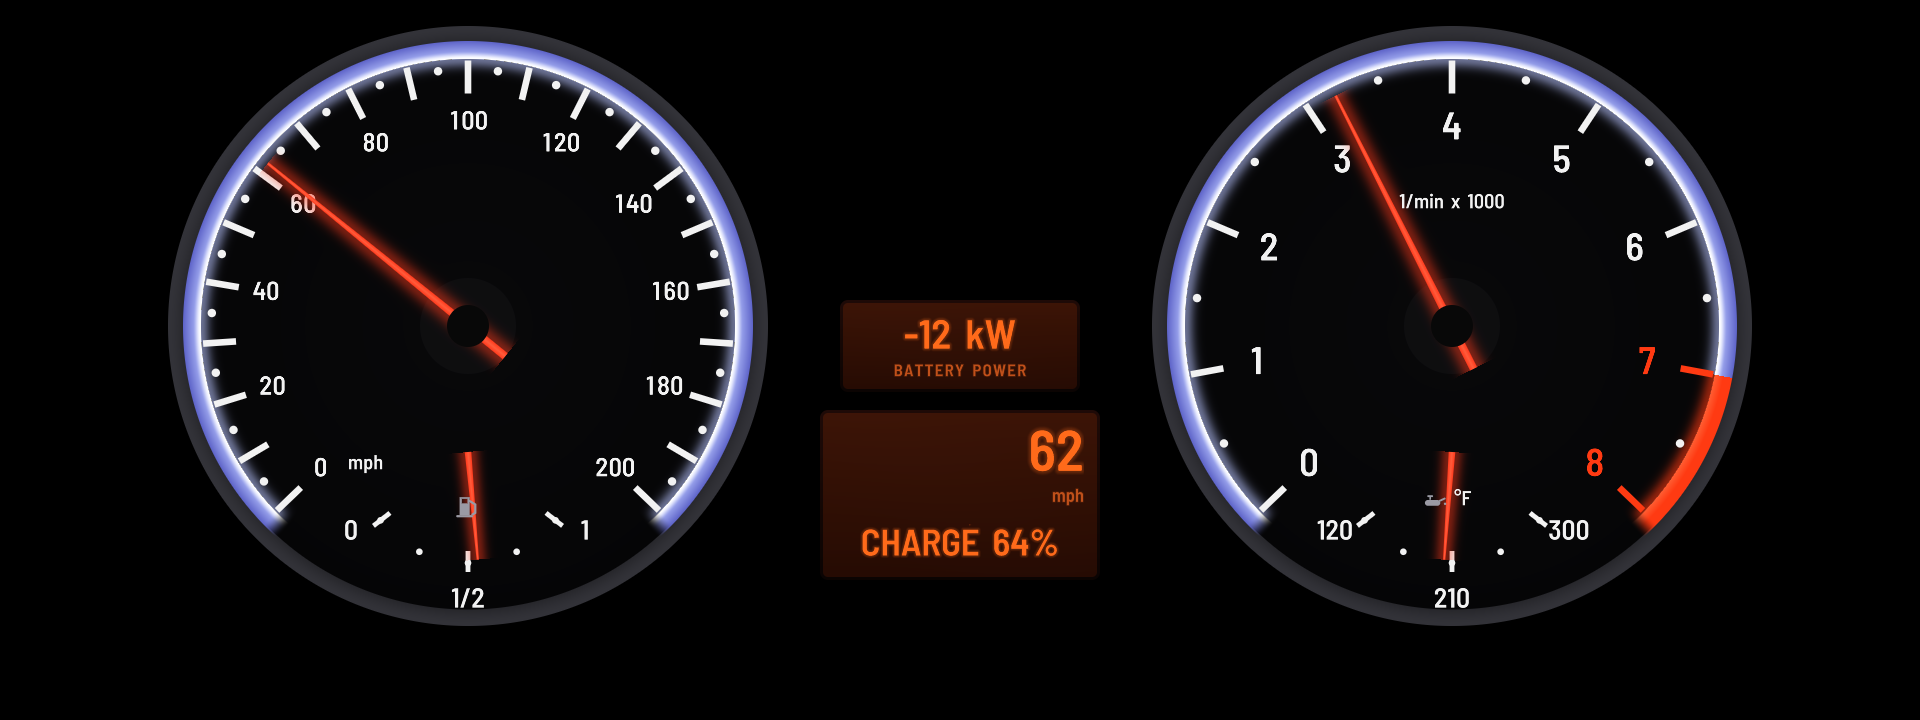
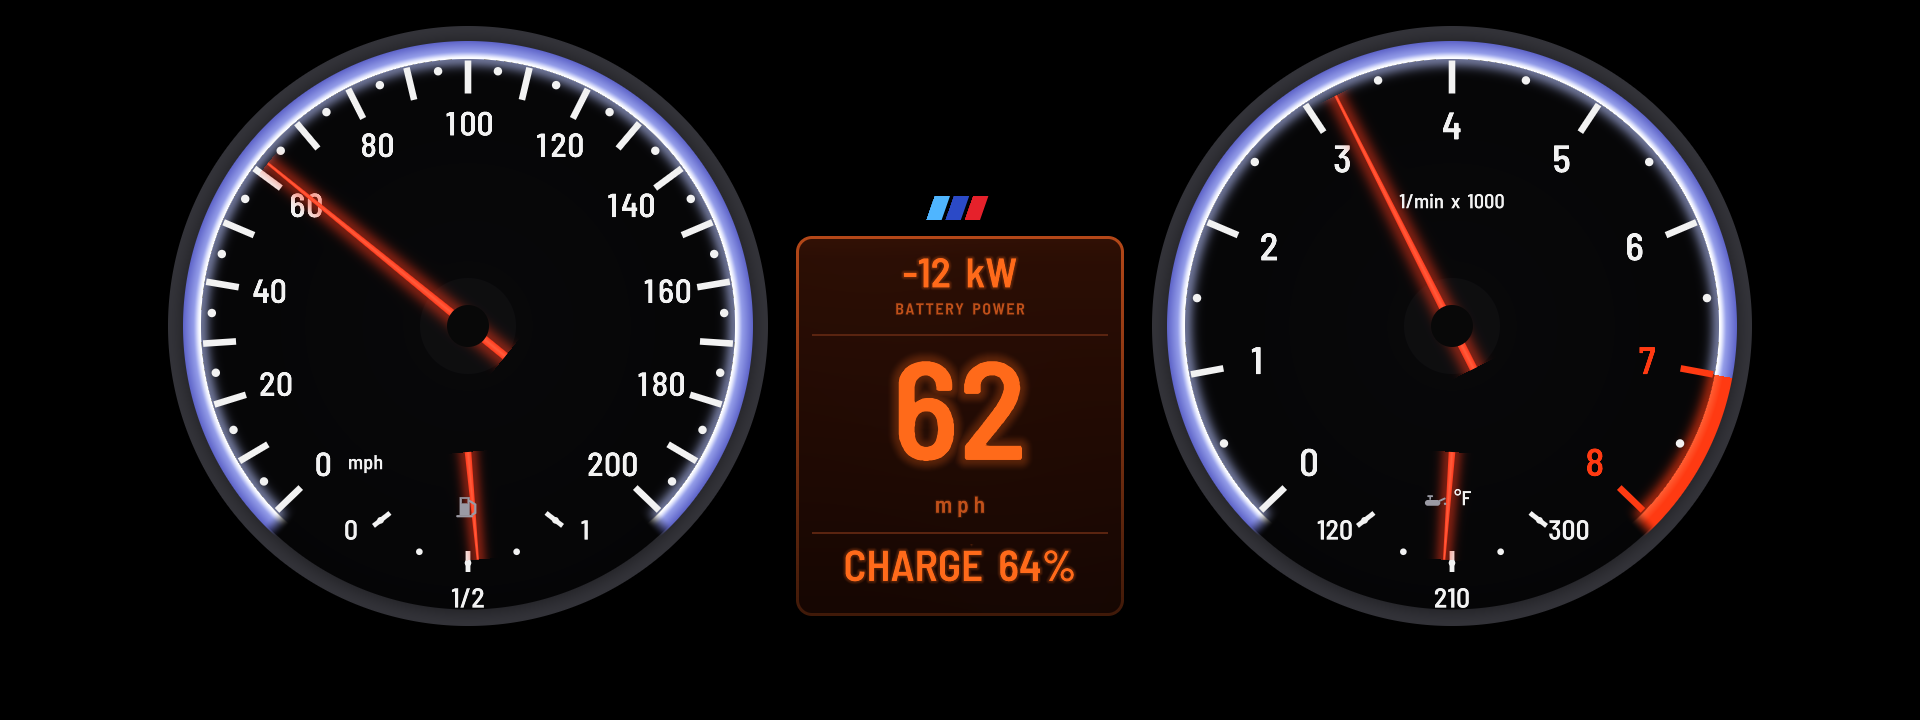
Cluster Layouts 0.26.1: Classic M's speed easier to read; its centre display redone
- The digital speed in the middle is much larger, about 1.6 times its old height.
- The speedometer's numerals are larger: about 30% in mph, 10% in km/h, where 12 numerals
  have to fit.
- The centre is one amber LCD, as the E9x's, under the M tricolour.
  - Along the top: the battery's power with its label (the gear at the right, full screen).
  - In the middle: the speed and its unit.
  - Along the bottom: the charge (the coolant on a petrol or diesel car).
  - Thin amber rules separate the rows, and the edge glows faintly amber.

Claude-Session: https://claude.ai/code/session_01QwhX8ghGKjBsHGDMJafpJK

diff --git a/apps/cluster_layouts/layout_classic.js b/apps/cluster_layouts/layout_classic.js
@@ -17,7 +17,7 @@ const B = require('./bimmer');
 
 const PAL = {
     bg: '#000000', face: '#050506', ring: '#b9c4ff', ring2: '#5d63c8', bezel: '#2a2a2f', tick: '#f2f2f2', needle: '#ff3a1c', red: '#ff3a12',
-    text: '#f2f2f2', dim: '#9a9aa4', amber: '#ff6a1a', amberDim: '#c0501a', lcd0: '#3c1406', lcd1: '#260b03', lcdEdge: '#120604', regen: '#3ddc84', glow: '#ff6a1a',
+    text: '#f2f2f2', dim: '#9a9aa4', amber: '#ff6a1a', amberDim: '#c0501a', lcd0: '#2c0e04', lcd1: '#160602', lcdEdge: '#6a2a0e', lcdRule: '#5a2410', regen: '#3ddc84', glow: '#ff6a1a',
 };
 const pal = () => Object.assign({}, PAL);
 const isNum = C.isNum;
@@ -45,7 +45,7 @@ function dial(o, which, cx, cy, size) {
     const out = [{
         key: which, kind: 'e9x', x: cx - R, y: cy - R, w: size, h: size,
         params: {
-            u_scale: sc, u_arc: [A0, A1, red, speed ? 0.095 : 0.14],
+            u_scale: sc, u_arc: [A0, A1, red, speed ? (kmh ? 0.105 : 0.122) : 0.14],
             u_sub: [SUB[0], SUB[1], 2, 2], u_min: [0], u_zero: [0], u_regen: C.REGEN_RGB,
         },
         colors: (t) => ({ face: t.face, ring: t.ring, ring2: t.ring2, bezel: t.bezel, tick: t.tick, needle: t.needle, red: t.red }),
@@ -76,26 +76,30 @@ function dial(o, which, cx, cy, size) {
     return out;
 }
 
-/** The amber display between the dials: the battery's power (boost) above; the gear and the speed below, the charge
- * (the coolant) under them. gear: show the gear (not over the car's own strip, which shows it). */
-function display(o, X, Y, W, gear) {
+/**
+ * The amber display between the dials, one LCD as the E9x's: along the top the battery's power (the boost) with its
+ * label, and the gear at the right (gear: not over the car's own strip, which shows it); the speed large in the
+ * middle with its unit; the charge (the coolant) along the bottom; thin amber rules between. The M tricolour over it.
+ * X, Y, W, H: the LCD's box.
+ */
+function display(o, X, Y, W, H, gear) {
     const engine = C.engineFocus(o) || o.vehicle === 'ice';
-    const powerC = amber;   // (all amber, as the car's display)
-    const box = (key, x, y, w, h) => ({ key, kind: 'panel', x, y, w, h, params: { u_box: [8, 3, 0.1, 1] }, colors: (t) => ({ top: t.lcd0, bottom: t.lcd1, border: t.lcdEdge }) });
-    const uw = W - 40, ux = X + 20;
+    const k = H / 372;                                   // (laid out for 372 high)
+    const at = (y) => Y + Math.round(y * k), hh = (h) => Math.round(h * k);
+    const hS = Math.min(hh(150), Math.round(W * 0.46));   // the speed's height: as large as the width takes 3 figures
     const out = [
-        box('lcdTop', ux, Y, uw, 92),
-        C.text('kwNow', ux + 12, Y + 14, uw - 24, 44, C.focus.power(o), powerC),
-        C.text('kwNowLbl', ux + 12, Y + 62, uw - 24, 18, C.focus.powerLabel(o, true), amberDim, { tracking: 0.08 }),
-        box('lcd', X, Y + 110, W, 170),
+        // the M tricolour over the display, as on the E9x M3's dials
+        { key: 'mStripes', kind: 'mdash', x: X + W / 2 - 40, y: Y - 44, w: 84, h: 34, z: -90, params: { u_part: [4], u_off: [X + W / 2 - 40, Y - 44], u_mark: [X + W / 2 - 34, Y - 40, 1.2] }, colors: (t) => ({ red: t.red }) },
+        { key: 'lcd', kind: 'panel', x: X, y: Y, w: W, h: H, params: { u_box: [16, 3, 0.12, 1] }, colors: (t) => ({ top: t.lcd0, bottom: t.lcd1, border: t.lcdEdge }) },
+        C.text('kwNow', X + 18, at(16), gear ? W - 110 : W - 36, hh(44), C.focus.power(o), amber, { align: gear ? 0 : 0.5 }),
+        C.text('kwNowLbl', X + 18, at(64), W - 36, hh(17), C.focus.powerLabel(o, true), amberDim, { align: gear ? 0 : 0.5, tracking: 0.1 }),
+        Object.assign(C.flat('lcdRule0', X + 16, at(96), W - 32, 2, 'lcdRule'), { z: 1 }),
+        C.text('speedDigits', X + 10, at(102) + Math.round((hh(150) - hS) / 2), W - 20, hS, (d) => C.speedText(o, d), amber),
+        C.text('speedDigitsUnit', X + 10, at(252), W - 20, hh(24), C.speedUnit(o), amberDim, { tracking: 0.2 }),
+        Object.assign(C.flat('lcdRule1', X + 16, at(290), W - 32, 2, 'lcdRule'), { z: 1 }),
+        C.text('socTxt', X + 14, at(302), W - 28, hh(46), engine ? (d) => 'COOLANT ' + C.tempText(o, d.coolant) : (d) => 'CHARGE ' + C.socText(d), amber),
     ];
-    // the gear (left) and the speed with its unit under it
-    const gw = gear ? Math.round(W * 0.32) : 0;
-    if (gear) out.push(C.text('gear', X + 12, Y + 132, gw, 56, C.gearText, (t, d) => (C.gearText(d) === 'R' ? { color: [t.red, 1], glow: [t.red, 0.3] } : amber(t)), { align: 0 }));
-    out.push(C.text('speedDigits', X + gw + 16, Y + 122, W - gw - 32, 62, (d) => C.speedText(o, d), amber, { align: 1 }),
-        C.text('speedDigitsUnit', X + W - 76, Y + 186, 60, 20, C.speedUnit(o), amberDim, { align: 1 }),
-        C.flat('lcdRule', X + 14, Y + 212, W - 28, 2, 'amberDim'),
-        C.text('socTxt', X + 14, Y + 224, W - 28, 40, engine ? (d) => 'COOLANT ' + C.tempText(o, d.coolant) : (d) => 'CHARGE ' + C.socText(d), amber, { align: 0.5 }));
+    if (gear) out.push(C.text('gear', X + W - 92, at(14), 74, hh(66), C.gearText, (t, d) => (C.gearText(d) === 'R' ? { color: [t.red, 1], glow: [t.red, 0.3] } : amber(t)), { align: 1 }));
     return out;
 }
 
@@ -117,7 +121,7 @@ module.exports = {
         }
         if (strip && o.centre !== 'stock') {
             // the car's own bottom strip (the default): the two dials either side of the amber display, above the strip
-            return [C.flat('bg', 0, 0, 1920, 720, 'bg')].concat(dial(o, 'speed', 468, 326, 600), dial(o, 'rpm', 1452, 326, 600), display(o, 820, 300, 280, false));
+            return [C.flat('bg', 0, 0, 1920, 720, 'bg')].concat(dial(o, 'speed', 468, 326, 600), dial(o, 'rpm', 1452, 326, 600), display(o, 796, 236, 328, 380, false));
         }
         // full screen: the speedometer left, the tach left of the KOMBI's dark box (with the stock centre: small,
         // between them), the display between; right of the box the electric range and the charge
@@ -129,6 +133,6 @@ module.exports = {
             C.text('socRight', RX, 446, RW, 44, C.focus.charge(o), elec));
         if (stock) return list;
         // (an M car's KOMBI leaves a box at x 778-1054 from y 274: the display narrower, left of it)
-        return list.concat(C.mCar(o) ? display(o, 584, 230, 186, true) : display(o, 576, 230, 274, true));
+        return list.concat(C.mCar(o) ? display(o, 584, 214, 186, 420, true) : display(o, 574, 214, 278, 420, true));
     },
 };

diff --git a/apps/cluster_layouts/README.md b/apps/cluster_layouts/README.md
@@ -217,8 +217,8 @@ goes in the window between the brackets.
 The round dials of BMW's M cars of the late 2000s, drawn after a photo of an E92 M3's cluster at night: black faces,
 a ring of cool white-blue light round each scale (open across the bottom), white bars, dots and numerals (one scale:
 mph or km/h, as set), thin glowing red needles over dark hubs, the fuel gauge across the speedometer's foot
-and the oil temperature across the tach's, and the amber display between them with the battery's power, the speed
-and the charge (and the gear, full screen; the charge is in the display, so the strip's charge bar isn't added). In
+and the oil temperature across the tach's, and one amber LCD between them under the M tricolour: the battery's
+power along the top, the speed in large figures in the middle, the charge along the bottom (and the gear, full screen; the charge is in the display, so the strip's charge bar isn't added). In
 an electric drive the tach reads the battery's power in kW: 0 a quarter round, the ring green below it for
 regeneration. An original drawing.
 
